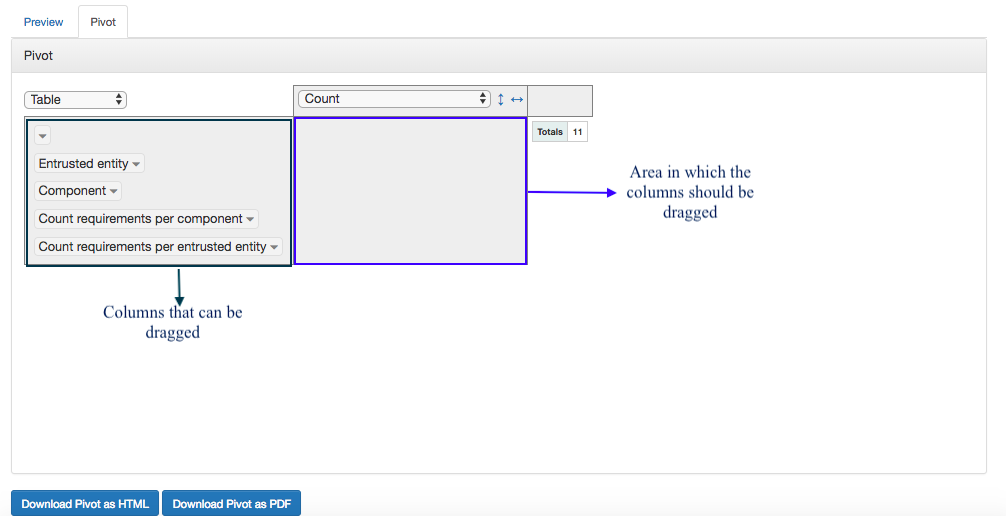
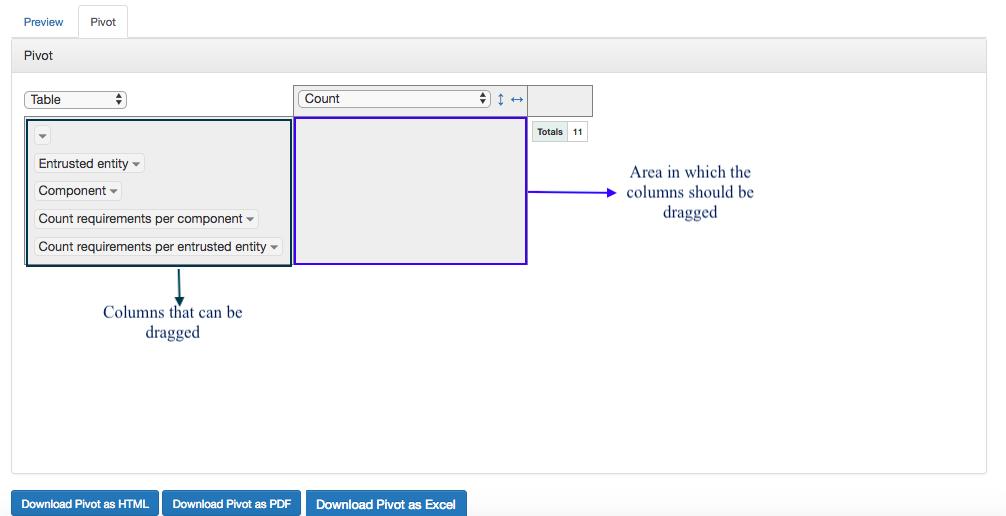
[refs #98860] Update User manual - pivot excel export

Changed region(s): [[0.2773, 0.9302, 0.4622, 1.0]]

diff --git a/docs/guide.rst b/docs/guide.rst
@@ -415,7 +415,7 @@ By clicking the "Pivot" tab a new table will appear. On the top of this table or
 on the left side, depending on the report,  the available columns are displayed. Those columns
 can then be dragged under the "Count" dropdown. The columns will appear in the preview section
 in the order they were introduced. They can be rearanged to fit the user's need. When the
-preview looks good, the user can export (*Figure 16* and
+preview looks good, the user can export the tables in HTML, PDF or Excel format. (*Figure 16* and
 *Figure 17*) .
 
 ..  figure:: screenshots/report_pivot1.png
